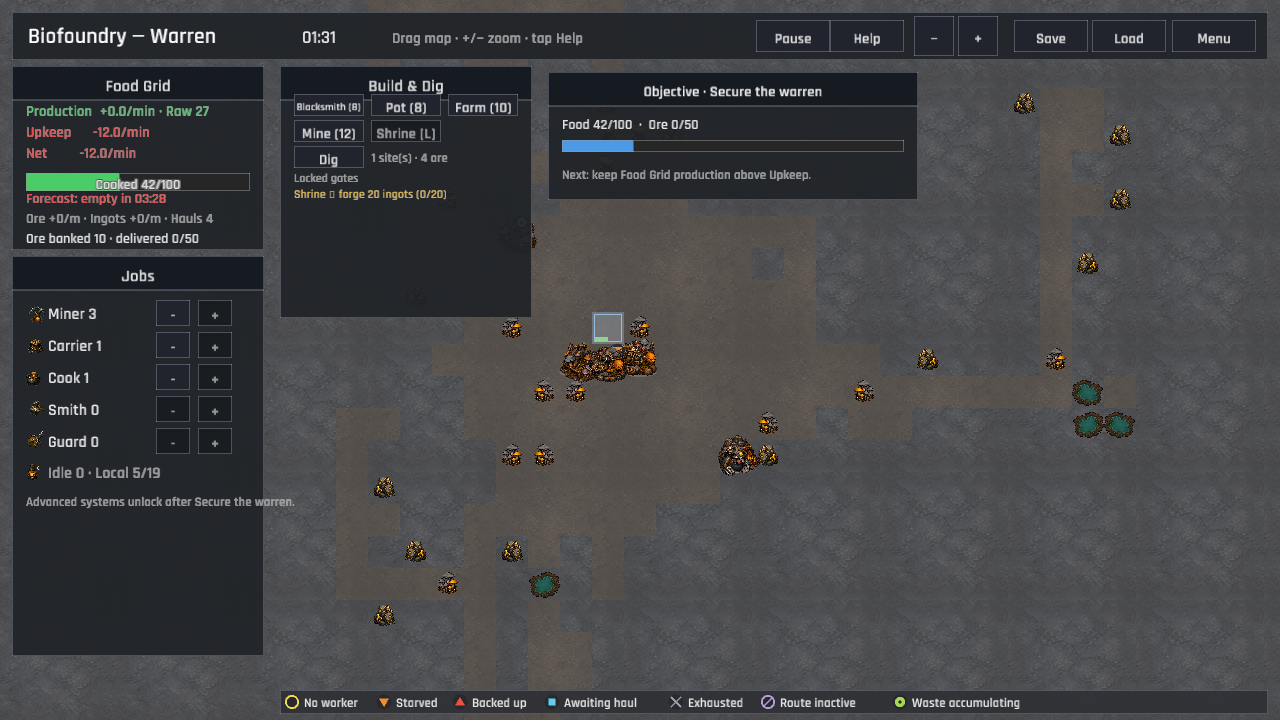
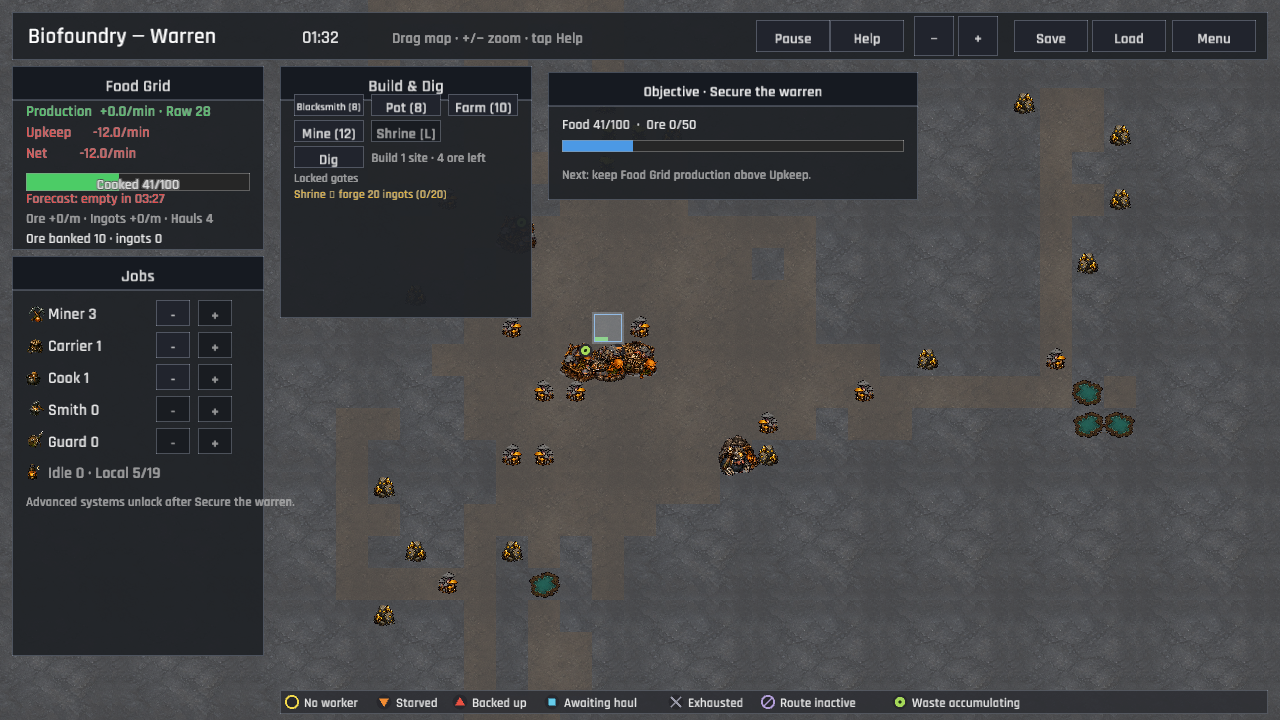
The diggers call out the ore still owed at the building ghost (HUD clarity, P3 economy diagnosis)
The old site(s) counter did not say that its ore value was the construction remainder. The Build & Dig panel now uses a singular-aware construction label, with focused coverage and a refreshed factory verification capture so pending work reads as an actionable requirement.

diff --git a/src/ui/hud/panels.rs b/src/ui/hud/panels.rs
@@ -557,7 +557,7 @@ pub(super) fn draw_tools_panel(
     if !session.build_sites.is_empty() {
         let pending: u32 = session.build_sites.iter().map(|s| s.remaining()).sum();
         draw_ui_text_ex(
-            &format!("{} site(s) · {} ore", session.build_sites.len(), pending),
+            &construction_progress_label(session.build_sites.len(), pending),
             x + cell + 8.0,
             y + 16.0,
             TextStyle::new(13.0, dark::TEXT_DIM).params(),
@@ -587,6 +587,11 @@ fn active_tool_marker(active: bool) -> &'static str {
     } else {
         ""
     }
+}
+
+fn construction_progress_label(site_count: usize, ore_remaining: u32) -> String {
+    let noun = if site_count == 1 { "site" } else { "sites" };
+    format!("Build {site_count} {noun} · {ore_remaining} ore left")
 }
 
 fn is_core_building(id: &str) -> bool {

diff --git a/src/ui/hud/panels/tests.rs b/src/ui/hud/panels/tests.rs
@@ -239,3 +239,15 @@ fn locked_tool_marker_uses_font_safe_ascii() {
     assert_eq!(LOCKED_TOOL_MARKER, "[L]");
     assert!(!LOCKED_TOOL_MARKER.contains('🔒'));
 }
+
+#[test]
+fn construction_progress_label_explains_remaining_ore() {
+    assert_eq!(
+        construction_progress_label(1, 10),
+        "Build 1 site · 10 ore left"
+    );
+    assert_eq!(
+        construction_progress_label(2, 18),
+        "Build 2 sites · 18 ore left"
+    );
+}
